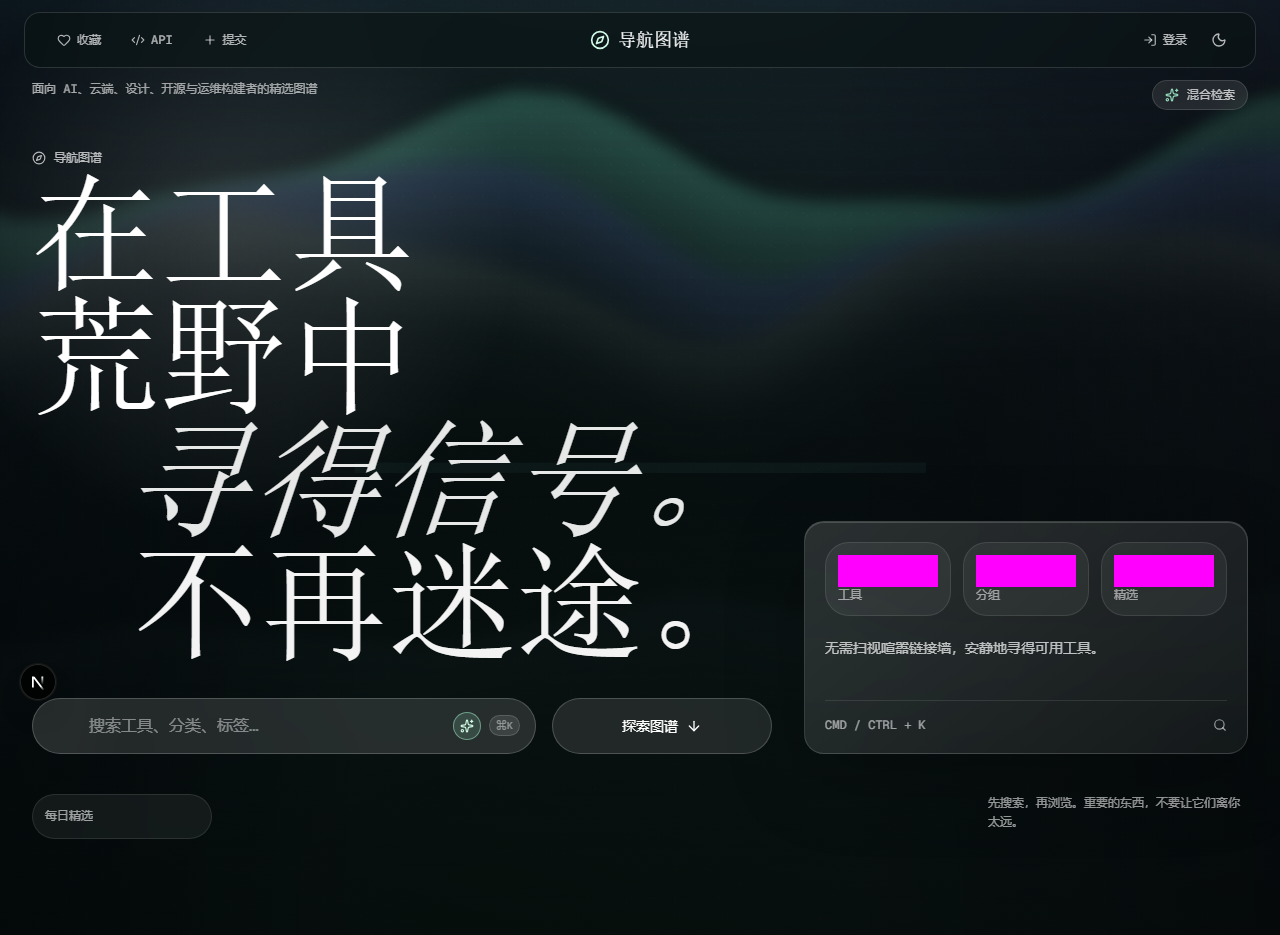
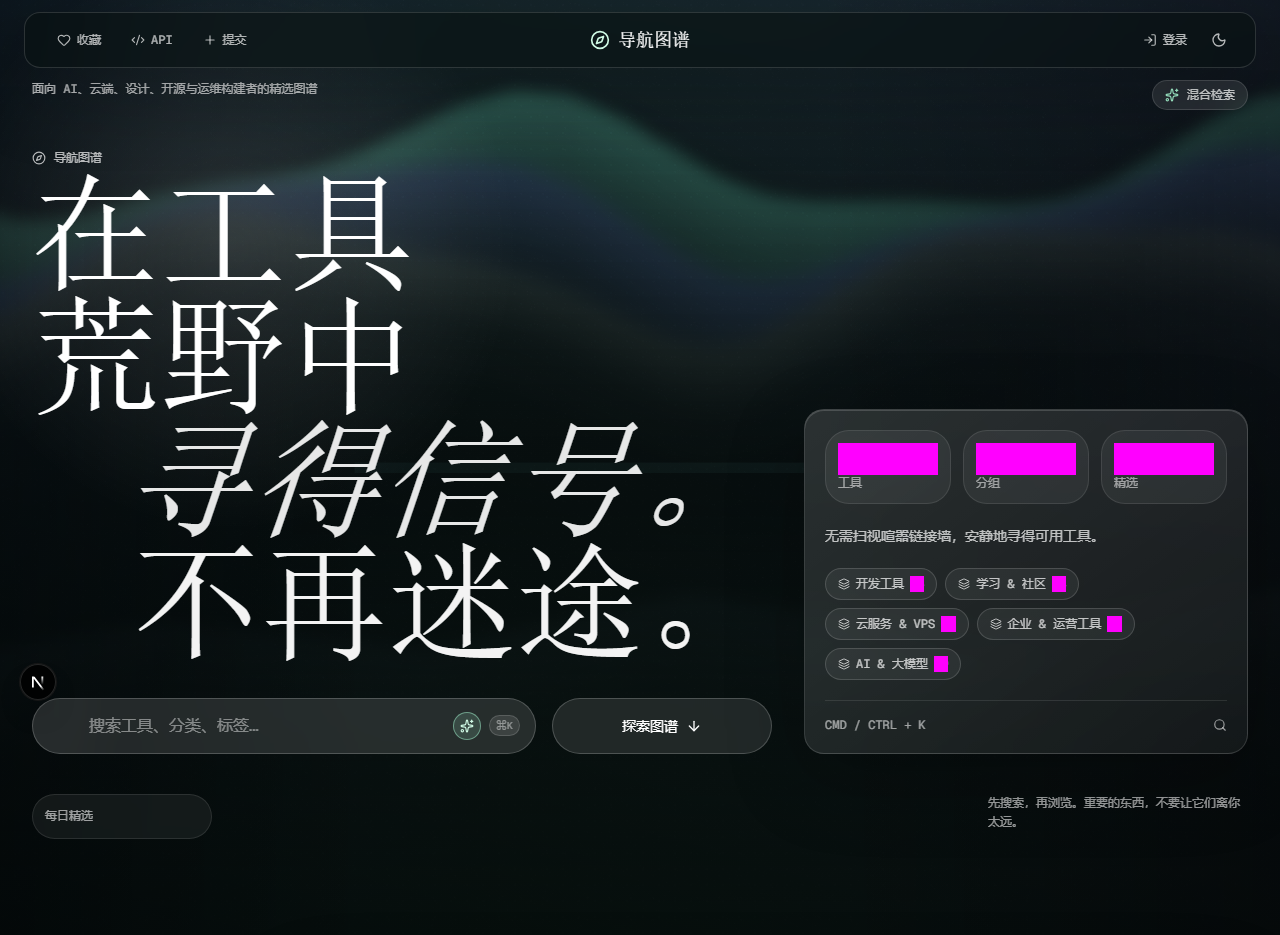
perf(H6): RSC boundary shrinkage - CSS animations replace motion.section
Remove use client + motion dependencies from CategorySection, DualTrackSection, animations.ts. Replace motion.section with plain section animate-fade-in-up backed by CSS keyframes fadeInUp (0.3s cubic-bezier + reduced-motion guard).

Bundle impact: 469.5 to 469.8 KB gzip (+0.3 KB, motion still in client boundary via Navigation.tsx). Real value is architectural preparation for Navigation.tsx split - after which motion can become a dynamic import, cutting ~40 KB from first-load JS.

Also fixes: E2E nav locator (nav/.first() to nav[aria-label=导航分类]), visual baseline update for H1 PanguSpacing scope change.

Changed region(s): [[0.625, 0.4342, 0.9688, 0.7444]]

diff --git a/app/globals.css b/app/globals.css
@@ -406,3 +406,28 @@ html {
     @apply flex-row items-center gap-2;
   }
 }
+
+/* ===== Section 入场动画（替代 motion fadeInUp，减少客户端 JS 依赖） ===== */
+@keyframes fadeInUp {
+  from {
+    opacity: 0;
+    transform: translateY(10px);
+  }
+  to {
+    opacity: 1;
+    transform: translateY(0);
+  }
+}
+
+.animate-fade-in-up {
+  animation: fadeInUp 0.3s cubic-bezier(0.22, 1, 0.36, 1) both;
+}
+
+/* 减少动作时直接跳到终态，不让 fill-mode:both 把元素卡在 opacity:0 */
+@media (prefers-reduced-motion: reduce) {
+  .animate-fade-in-up {
+    animation: none;
+    opacity: 1;
+    transform: none;
+  }
+}

diff --git a/components/DualTrackSection.tsx b/components/DualTrackSection.tsx
@@ -1,9 +1,5 @@
-"use client";
-
 import { type KeyboardEvent } from "react";
-import { motion } from "motion/react";
 import { Flame } from "lucide-react";
-import { fadeInUp } from "@/lib/animations";
 import { type NavLink } from "@/lib/types";
 import { ResultGrid } from "./ResultGrid";
 
@@ -33,7 +29,7 @@ export function DualTrackSection({
   return (
     <>
       {featured.length > 0 && (
-        <motion.section variants={fadeInUp}>
+        <section className="animate-fade-in-up">
           <h2 className="atlas-section-label text-emerald-100">推荐</h2>
           <ResultGrid
             links={featured}
@@ -44,11 +40,11 @@ export function DualTrackSection({
             searchQuery={searchQuery}
             onPreview={onPreview}
           />
-        </motion.section>
+        </section>
       )}
 
       {latest.length > 0 && (
-        <motion.section variants={fadeInUp}>
+        <section className="animate-fade-in-up">
           <h2 className="atlas-section-label text-white/68">最新添加</h2>
           <ResultGrid
             links={latest}
@@ -59,11 +55,11 @@ export function DualTrackSection({
             searchQuery={searchQuery}
             onPreview={onPreview}
           />
-        </motion.section>
+        </section>
       )}
 
       {popular.length > 0 && (
-        <motion.section variants={fadeInUp}>
+        <section className="animate-fade-in-up">
           <h2 className="atlas-section-label text-white/68">
             <Flame className="h-3.5 w-3.5 text-amber-200/80" />
             热门访问
@@ -77,7 +73,7 @@ export function DualTrackSection({
             searchQuery={searchQuery}
             onPreview={onPreview}
           />
-        </motion.section>
+        </section>
       )}
     </>
   );

diff --git a/components/CategorySection.tsx b/components/CategorySection.tsx
@@ -1,9 +1,5 @@
-"use client";
-
 import { type KeyboardEvent } from "react";
 import { type NavLink } from "@/lib/types";
-import { motion } from "motion/react";
-import { fadeInUp } from "@/lib/animations";
 import { ResultGrid } from "./ResultGrid";
 
 interface CategorySectionConfig {
@@ -39,7 +35,7 @@ export function CategorySection({
   if (!isSearchSection && activeCategory !== "all" && activeCategory !== section.key) return null;
 
   return (
-    <motion.section variants={fadeInUp}>
+    <section className="animate-fade-in-up">
       {(activeCategory === "all" || isSearchSection) && (
         <h2 className={`atlas-section-label ${section.accent || "text-white/78"}`}>
           {section.label}
@@ -55,6 +51,6 @@ export function CategorySection({
         searchQuery={searchQuery}
         onPreview={onPreview}
       />
-    </motion.section>
+    </section>
   );
 }

diff --git a/e2e/home.spec.ts b/e2e/home.spec.ts
@@ -59,8 +59,9 @@ test.describe("首页", () => {
   test("分类导航存在并可切换", async ({ page }) => {
     await page.goto("/", { waitUntil: "domcontentloaded" });
 
-    const nav = page.locator("nav, aside, [role='navigation']");
-    await expect(nav.first()).toBeVisible({ timeout: 15000 });
+    // 精确定位分类侧边栏导航（<nav aria-label="导航分类">），避免 .first() 误中 header 的空 <nav>
+    const categoryNav = page.locator('nav[aria-label="导航分类"]');
+    await expect(categoryNav).toBeVisible({ timeout: 15000 });
 
     // 尝试点击一个分类标签
     const categoryTab = page.locator('[role="tab"]:has-text("AI")').first();

diff --git a/lib/animations.ts b/lib/animations.ts
@@ -1,5 +1,3 @@
-"use client";
-
 import { type Variants } from "motion/react";
 
 export const staggerContainer: Variants = {